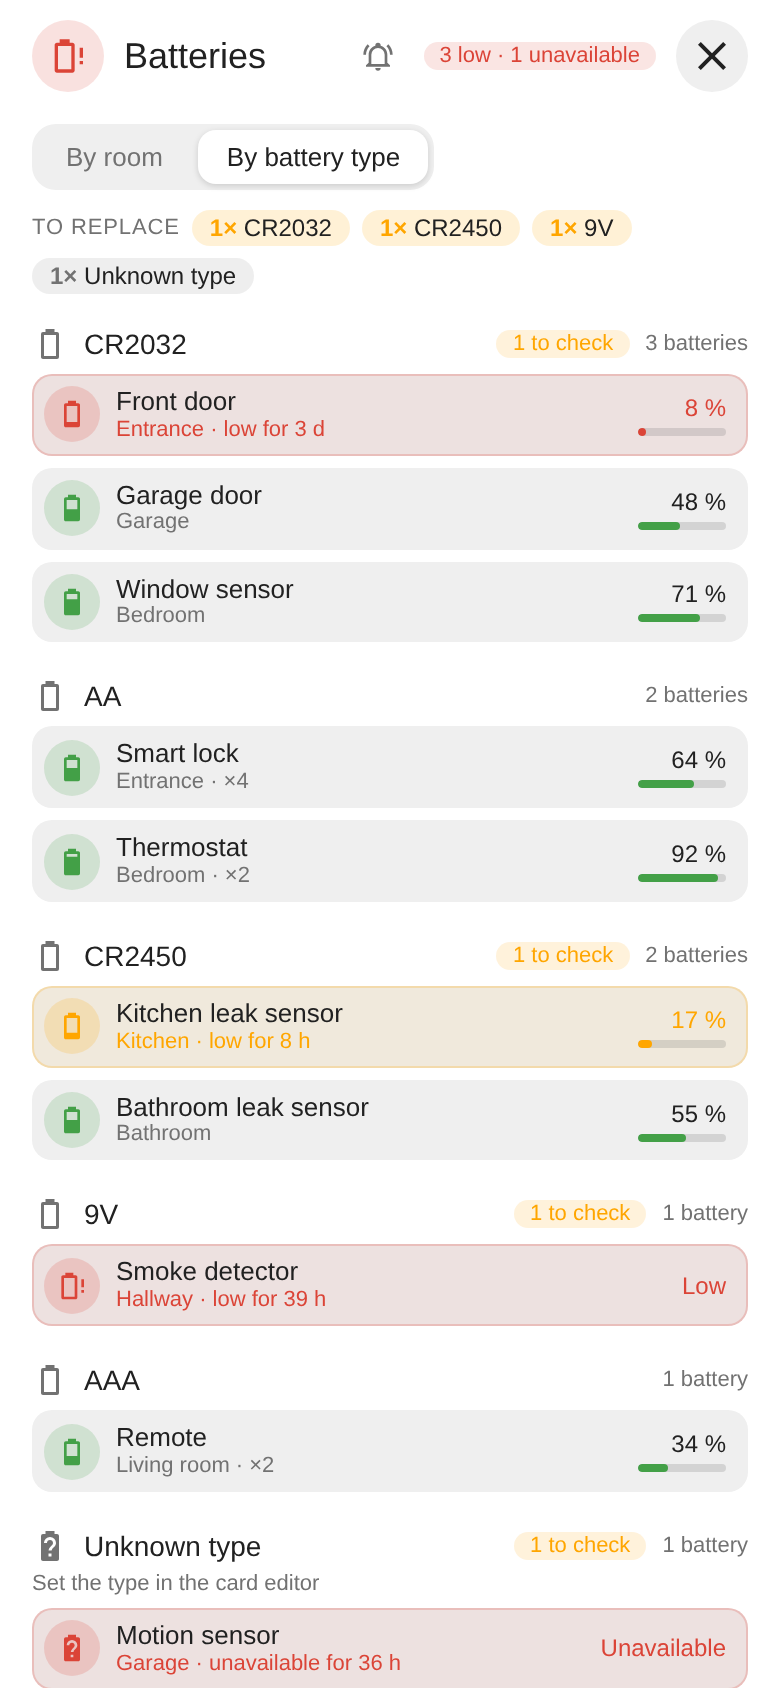
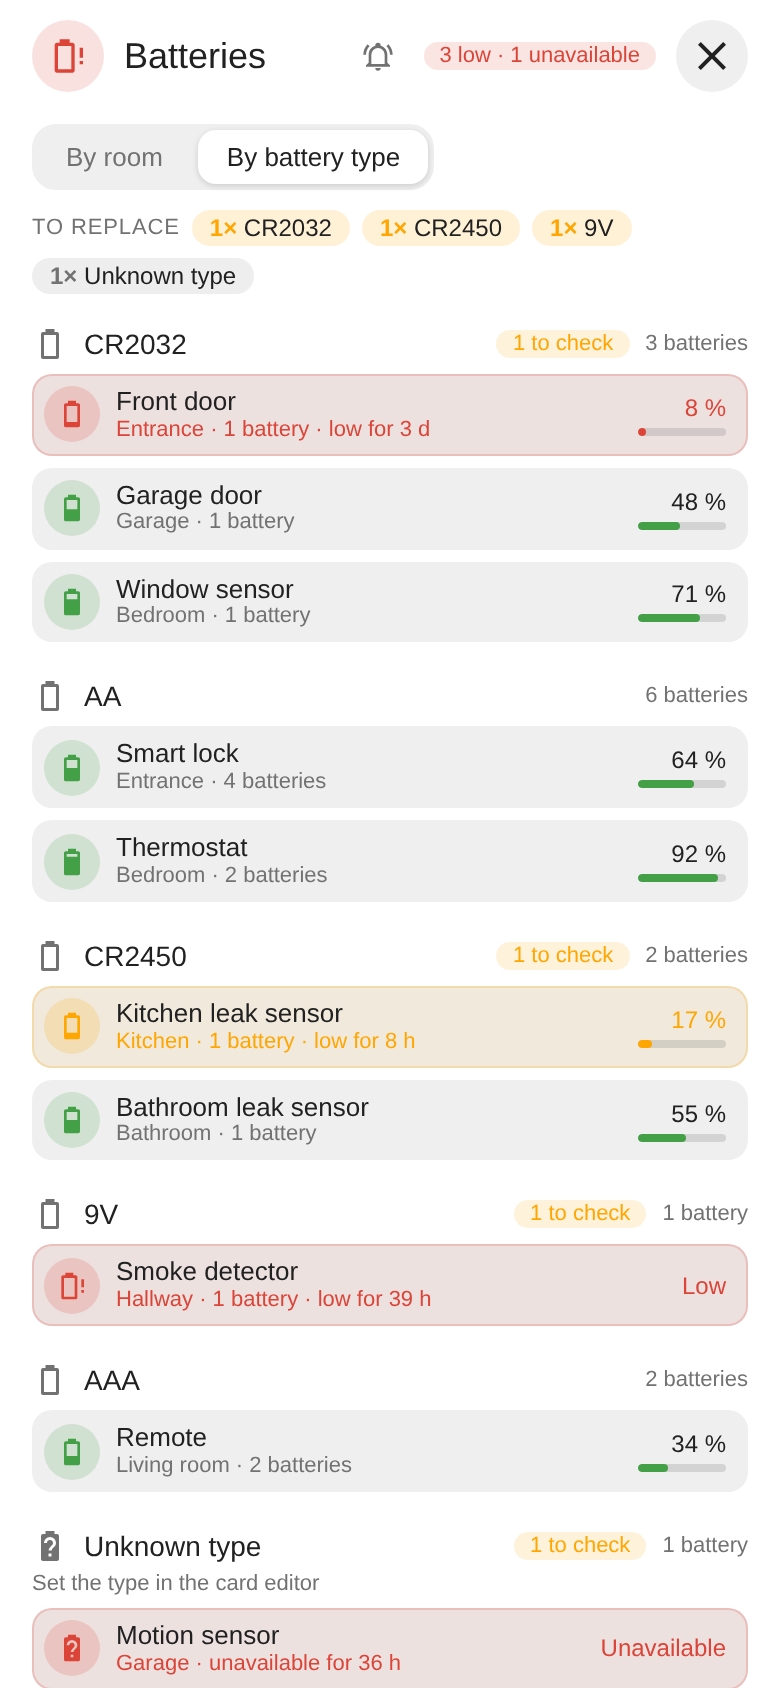
1.5.2: how many batteries each device takes
- "1× CR2032", "4× AA" under each battery, in the list and by room
- by type: each battery tells its room and count, each type its total

Claude-Session: https://claude.ai/code/session_01WjKiQzL7a4CMZZ4UuoNS5R

diff --git a/custom_components/battery_monitor/frontend/battery-monitor-card.js b/custom_components/battery_monitor/frontend/battery-monitor-card.js
@@ -4,7 +4,7 @@
  * Served and added to the dashboard resources by the integration.
  * https://github.com/juju35/ha-battery-monitor
  */
-var BATTERY_MONITOR_CARD_VERSION = '1.5.1';
+var BATTERY_MONITOR_CARD_VERSION = '1.5.2';
 
 const BM_I18N = {
   en: {
@@ -51,6 +51,8 @@ const BM_I18N = {
     rechargeable: 'Built-in rechargeable',
     count: '{n} batteries',
     count_one: '1 battery',
+    cells: '{n} batteries',
+    cells_one: '1 battery',
     to_check: '{n} to check',
     to_replace: 'To replace',
     nothing_to_replace: 'Nothing to replace',
@@ -99,6 +101,8 @@ const BM_I18N = {
     rechargeable: 'Batterie rechargeable intégrée',
     count: '{n} batteries',
     count_one: '1 batterie',
+    cells: '{n} piles',
+    cells_one: '1 pile',
     to_check: '{n} à vérifier',
     to_replace: 'À remplacer',
     nothing_to_replace: 'Rien à remplacer',
@@ -339,10 +343,11 @@ class BatteryMonitorCard extends HTMLElement {
     this.dispatchEvent(ev);
   }
 
-  _typeLabel(t) {
+  // The battery type with how many it takes: "1× CR2032", "4× AA"; a built-in rechargeable battery has no count.
+  _typeLabel(t, withCount = true) {
     if (!t) return '';
-    const name = t.type === 'rechargeable' ? this._t('rechargeable') : t.type;
-    return t.quantity > 1 ? `${name} ×${t.quantity}` : name;
+    if (t.type === 'rechargeable') return this._t('rechargeable');
+    return withCount ? `${t.quantity || 1}× ${t.type}` : t.type;
   }
 
   // One battery: `context` (its room, or its type) then how long it has needed attention, under its name.
@@ -424,7 +429,9 @@ class BatteryMonitorCard extends HTMLElement {
       const t = bmTypeOf(this._hass, this._config, b);
       const key = view === 'room' ? b.area || '' : t?.type || '';
       if (!map.has(key)) map.set(key, []);
-      map.get(key).push({ b, context: view === 'room' ? this._typeLabel(t) : [b.area, t?.quantity > 1 ? `×${t.quantity}` : ''].filter(Boolean).join(' · ') });
+      // By type, the group names the type: each battery tells its room and how many it takes.
+      const count = t && t.type !== 'rechargeable' ? this._t(t.quantity > 1 ? 'cells' : 'cells_one', { n: t.quantity }) : '';
+      map.get(key).push({ b, cells: t?.quantity || 1, context: view === 'room' ? this._typeLabel(t) : [b.area, count].filter(Boolean).join(' · ') });
     }
     const groups = [...map.entries()].map(([key, items]) => ({
       key,
@@ -436,9 +443,16 @@ class BatteryMonitorCard extends HTMLElement {
         : this._t(view === 'room' ? 'no_area' : 'unknown_type'),
       icon: view === 'room' ? 'mdi:door-open' : key ? 'mdi:battery-outline' : 'mdi:battery-unknown',
       hint: view === 'type' && !key ? this._t('unknown_type_hint') : '',
+      // By type, the batteries of that type in all (a remote with 2 AAA counts 2); by room, the devices.
+      cells: view === 'type' && key && key !== 'rechargeable' ? items.reduce((n, x) => n + x.cells, 0) : null,
     }));
     // Rooms by name, types by how many batteries use them; the room-less and the unknown last.
     return groups.sort((a, b) => !a.key - !b.key || (view === 'type' ? b.items.length - a.items.length : 0) || a.name.localeCompare(b.name));
+  }
+
+  _groupCount(g) {
+    if (g.cells != null) return this._t(g.cells > 1 ? 'cells' : 'cells_one', { n: g.cells });
+    return g.items.length > 1 ? this._t('count', { n: g.items.length }) : this._t('count_one');
   }
 
   // What to buy: the types of the batteries needing attention, with how many of each.
@@ -451,7 +465,7 @@ class BatteryMonitorCard extends HTMLElement {
     }
     return [...need.entries()]
       .sort((a, b) => !a[0] - !b[0] || b[1] - a[1])
-      .map(([type, n]) => `<span class="buy${type ? '' : ' unknown'}"><b>${n}×</b> ${bmEsc(type ? this._typeLabel({ type, quantity: 1 }) : this._t('unknown_type'))}</span>`)
+      .map(([type, n]) => `<span class="buy${type ? '' : ' unknown'}"><b>${n}×</b> ${bmEsc(type ? this._typeLabel({ type }, false) : this._t('unknown_type'))}</span>`)
       .join('');
   }
 
@@ -474,7 +488,7 @@ class BatteryMonitorCard extends HTMLElement {
         <section class="group${alerts ? ' attention' : ''}">
           <div class="ghead"><ha-icon icon="${g.icon}"></ha-icon><span class="gname">${bmEsc(g.name)}</span>
             ${alerts ? `<span class="gchip">${bmEsc(this._t('to_check', { n: alerts }))}</span>` : ''}
-            <span class="gcount">${bmEsc(g.items.length > 1 ? this._t('count', { n: g.items.length }) : this._t('count_one'))}</span></div>
+            <span class="gcount">${bmEsc(this._groupCount(g))}</span></div>
           ${g.hint ? `<div class="ghint">${bmEsc(g.hint)}</div>` : ''}
           <div class="glist">${g.items.map(({ b, context }) => this._row(b, context)).join('')}</div>
         </section>`;

diff --git a/custom_components/battery_monitor/const.py b/custom_components/battery_monitor/const.py
@@ -5,7 +5,7 @@ from __future__ import annotations
 from typing import Final
 
 DOMAIN: Final = "battery_monitor"
-VERSION: Final = "1.5.1"
+VERSION: Final = "1.5.2"
 
 CONF_THRESHOLD: Final = "threshold"
 CONF_DURATION: Final = "duration"

diff --git a/CHANGELOG.md b/CHANGELOG.md
@@ -1,5 +1,10 @@
 # Changelog
 
+## 1.5.2
+
+### Changes
+- Card: how many batteries each device takes, before its type: *1× CR2032*, *4× AA*, in the list and in the full screen view by room; by type, each battery tells its room and its count (*2 piles*), and each type how many batteries it takes in all.
+
 ## 1.5.1
 
 ### Changes
